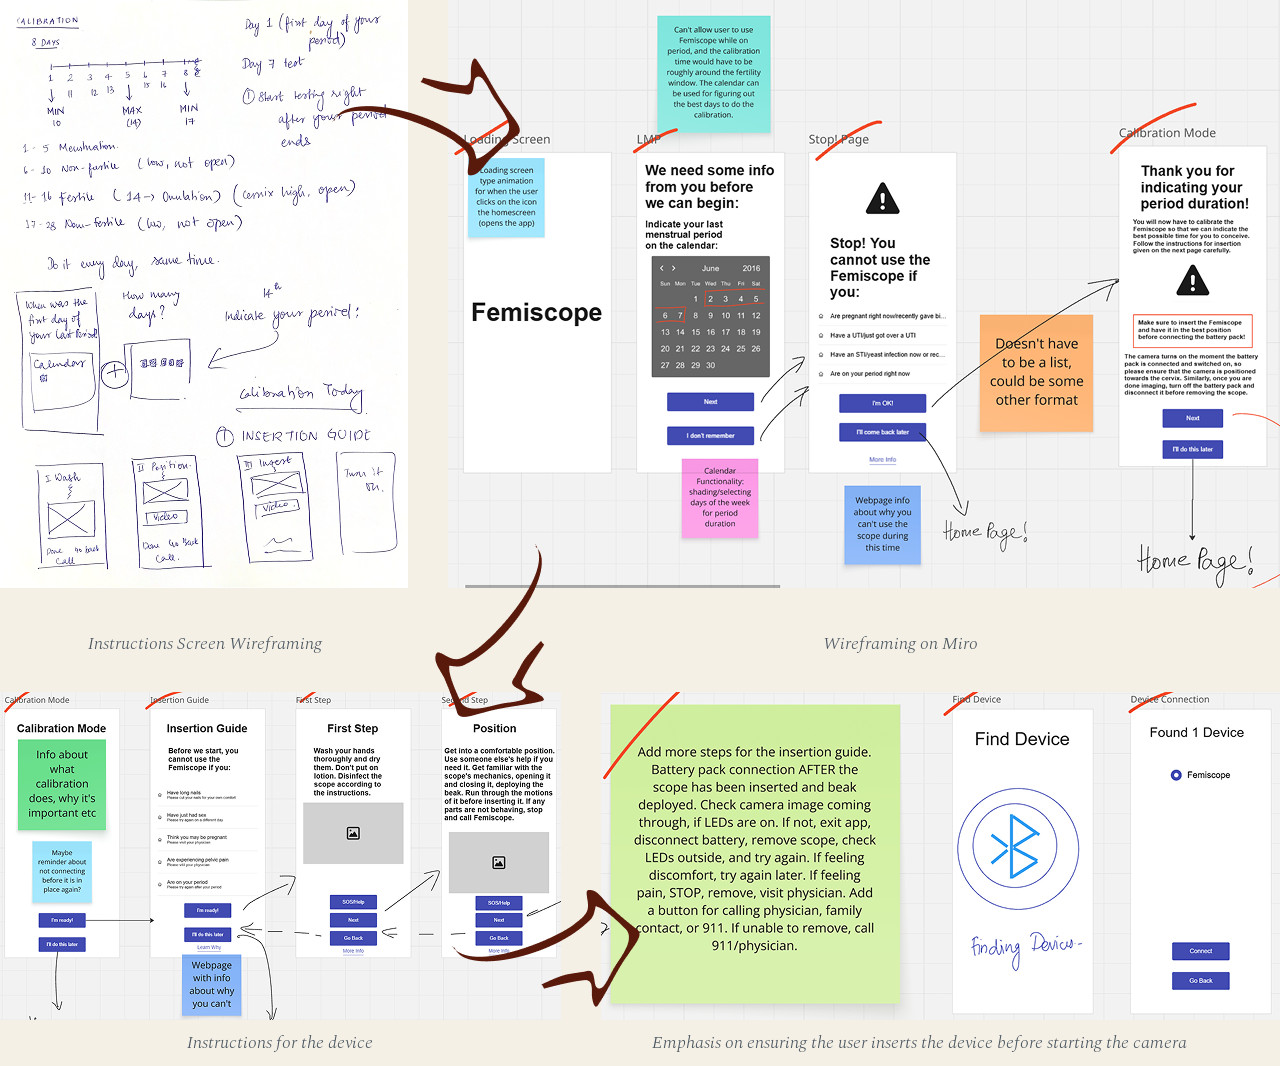
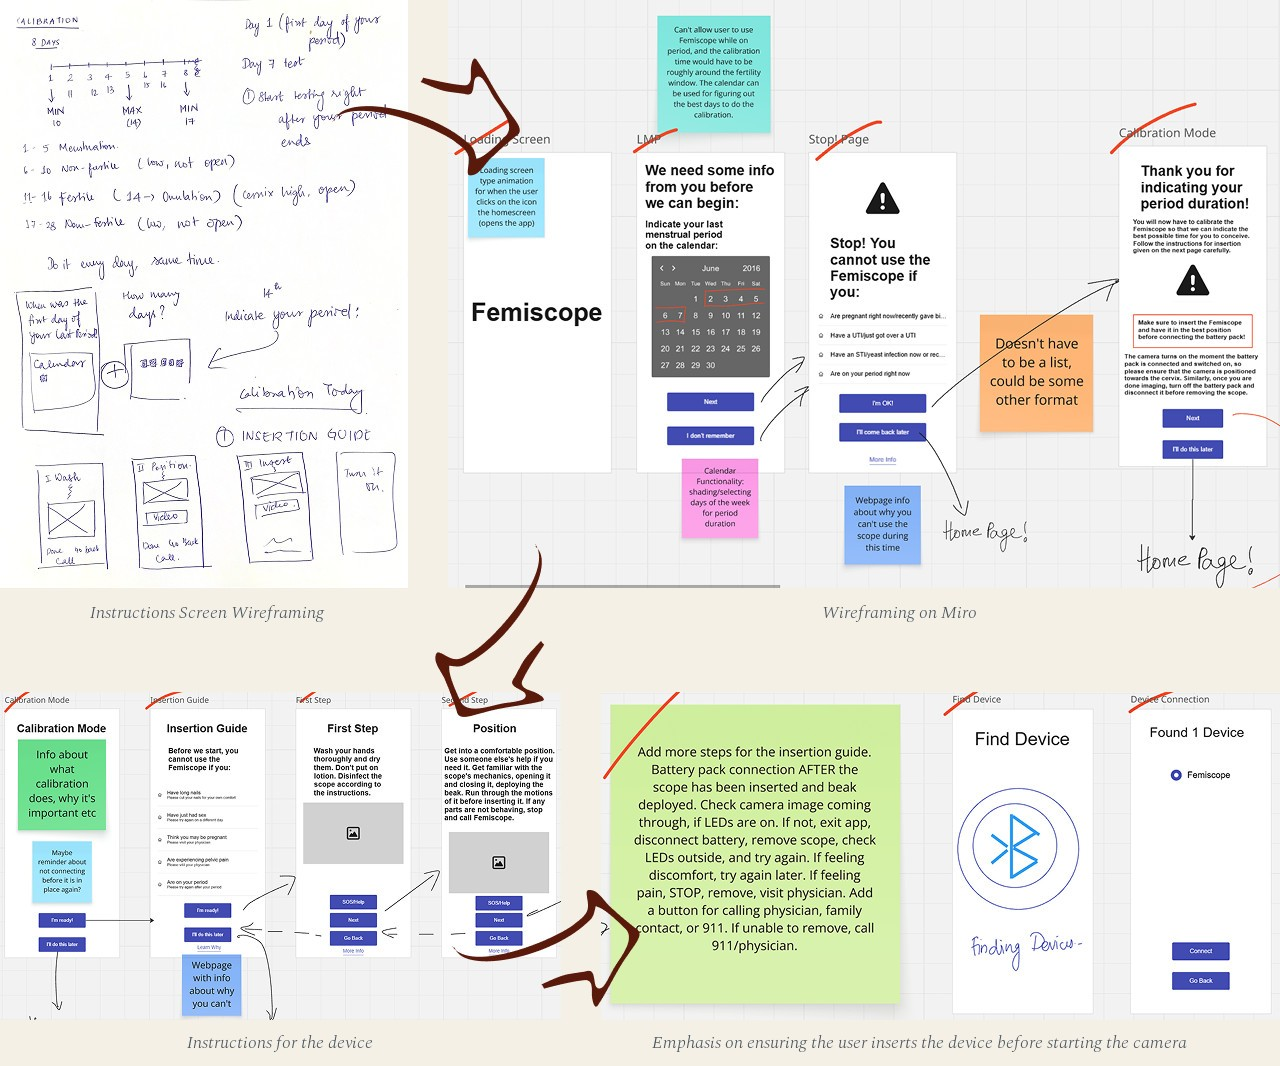
Tighten wireframe captions to their row; fix Problem image height for real
- elleloom-wireframes.jpg: "Instructions Screen Wireframing" and
  "Wireframing on Miro" had a much bigger gap above them than any other
  sub-caption on the site. Erased and redrew both ~31px higher, right
  under row 1 (same font/size/color as before), matching the tight
  gap the row-2 captions already had. Nothing else in the image
  touched.
- Problem section image: the grid-stretch fix from the previous commit
  didn't actually work, because the browser still sizes the image
  column's auto-row contribution from the <img>'s natural portrait
  aspect ratio at 340px wide (501px) plus the caption -- taller than
  the paragraph text most of the time, so the image hung below the
  text with blank space under the shorter column.
  Fixed by making the img `position: absolute; inset: 0` inside a
  `position: relative` .case-image. An absolutely-positioned img
  contributes no intrinsic size to its parent, so the grid row height
  is now driven purely by the text column, and image+caption stretch
  to fill exactly that height every time regardless of the image's
  own aspect ratio or viewport width. Mobile override switches the img
  back to position:static/height:auto so it still shows full and
  uncropped in the single-column layout below 700px.

diff --git a/css/style.css b/css/style.css
@@ -734,9 +734,17 @@ section.page-section {
   flex: 1 1 auto;
   min-height: 0;
   margin-top: 0; /* override .case-image's margin-top so both columns start flush at the top */
+  position: relative; /* so the img can go absolute below */
 }
 
+/* Absolutely-positioned img contributes no intrinsic size to its parent, so
+   .case-image has no natural height of its own here — the grid row's auto
+   height comes only from the text column, and this column (image + caption)
+   is stretched to match it exactly, instead of the image's own portrait
+   aspect ratio forcing the row taller than the text. */
 .case-image--float .case-image img {
+  position: absolute;
+  inset: 0;
   width: 100%;
   height: 100%;
   object-fit: cover;
@@ -750,7 +758,7 @@ section.page-section {
 @media (max-width: 700px) {
   .case-float { grid-template-columns: 1fr; }
   .case-image--float { width: 100%; }
-  .case-image--float .case-image img { height: auto; object-fit: unset; } /* same selector specificity as the desktop rule so this actually wins */
+  .case-image--float .case-image img { position: static; height: auto; object-fit: unset; } /* same selector specificity as the desktop rule so this actually wins */
 }
 
 @media (max-width: 700px) {
